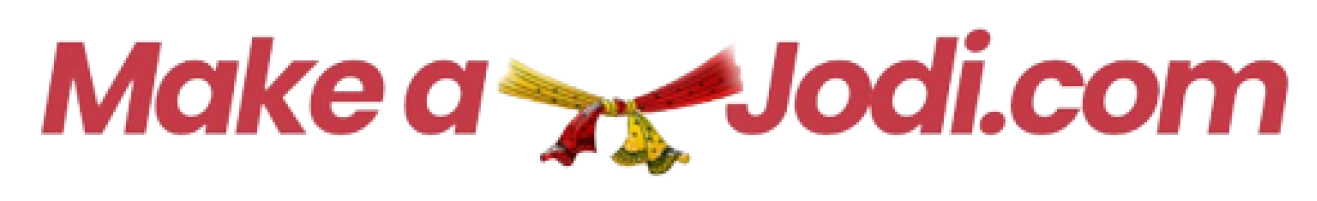
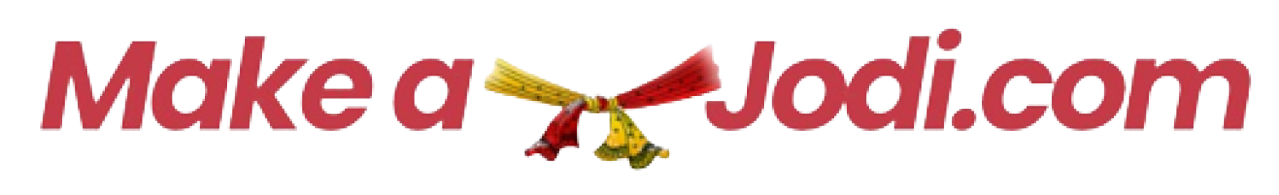
address changed

diff --git a/resources/views/layouts/left-navigation.blade.php b/resources/views/layouts/left-navigation.blade.php
@@ -19,7 +19,7 @@
                         <img src="{{ url('/images/logo-sm.png') }}" alt="" height="40">
                     </span>
                     <span class="logo-lg">
-                        <img src="{{ url('/images/logo-light.png') }}" alt="" height="35">
+                        <img src="{{ url('/images/makeajodi.png') }}" alt="" height="35">
                     </span>
                 </a>
             </div>
@@ -126,9 +126,13 @@
                         <li>
                             <a href="{{ route('todaysfollowup') }}">Today's Followup</a>
                         </li>
+                        @if (Auth::user()->role == config('constants.roles_ineger')['admin'] )
                         <li>
                             <a href="{{ route('sampleprofile') }}">Sample Profile</a>
                         </li>
+                        @endif
+
+                        
                         <li>
                             <a href="{{ route('myappoitments') }}">Appointments</a>
                         </li>

diff --git a/resources/views/profile/pdf-profiles.blade.php b/resources/views/profile/pdf-profiles.blade.php
@@ -44,10 +44,10 @@
                         <h5>Mail us at : info@makeajodi.com</h5>
                     </div>
                     <div class="col-md-6 mb-3 p-2 ">
-                        <h5>Add : H-18 Bali Nagar, New Delhi</h5>
+                        <h5>Add :  Karol Bagh, New Delhi-110005</h5>
                     </div>
                     <div class="col-md-6 mb-3 p-2 ">
-                        <h5>Contact : +91 969 798 9697</h5>
+                        <h5>Contact : +91 959 901 8647</h5>
                     </div>
                 </div>
             </div>

diff --git a/resources/views/profile/pdf-profiless.blade.php b/resources/views/profile/pdf-profiless.blade.php
@@ -44,10 +44,10 @@
                         <h5>Mail us at : info@makeajodi.com</h5>
                     </div>
                     <div class="col-md-6 mb-3 p-2 ">
-                        <h5>Add : H-18 Bali Nagar, New Delhi</h5>
+                        <h5>Add : Karol Bagh, New Delhi-110005</h5>
                     </div>
                     <div class="col-md-6 mb-3 p-2 ">
-                        <h5>Contact : +91 969 798 9697</h5>
+                        <h5>Contact : +91 959 901 8647</h5>
                     </div>
                 </div>
             </div>

diff --git a/resources/views/profile/sample-pdf-profiles.blade.php b/resources/views/profile/sample-pdf-profiles.blade.php
@@ -44,10 +44,10 @@
                         <h5>Mail us at : info@makeajodi.com</h5>
                     </div>
                     <div class="col-md-6 mb-3 p-2 ">
-                        <h5>Add : H-18 Bali Nagar, New Delhi</h5>
+                        <h5>Add : Karol Bagh, New Delhi-110005</h5>
                     </div>
                     <div class="col-md-6 mb-3 p-2 ">
-                        <h5>Contact : +91 969 798 9697</h5>
+                        <h5>Contact : +91 959 901 8647</h5>
                     </div>
                 </div>
             </div>
